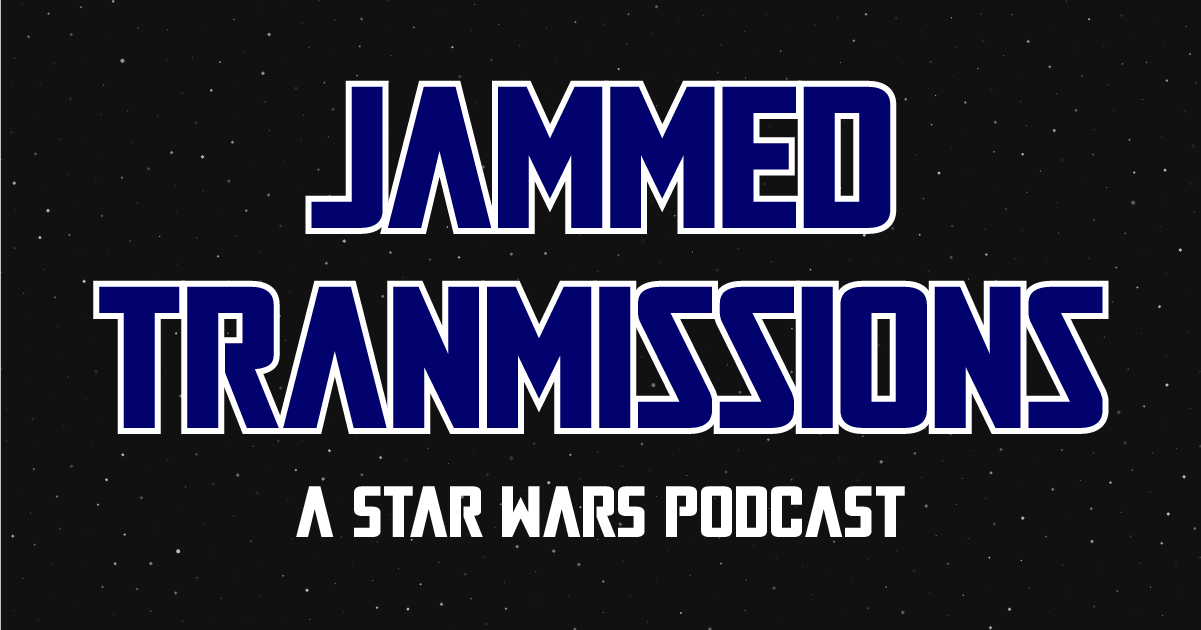
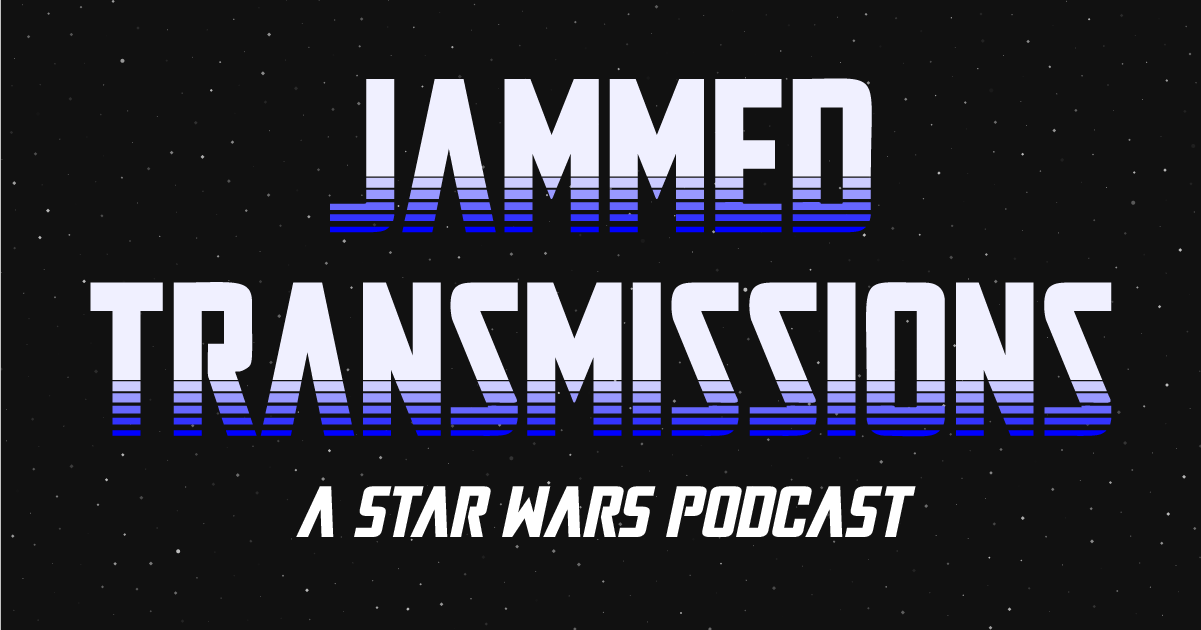
Update open graph images

Changed region(s): [[0.0616, 0.4222, 0.9242, 0.6937], [0.2465, 0.1206, 0.7702, 0.3921], [0.2465, 0.754, 0.7702, 0.8444]]

diff --git a/pages/_app.js b/pages/_app.js
@@ -25,7 +25,7 @@ function App({ Component, pageProps }) {
 				<meta property="og:title" content="Jammed Transmissions: A Star Wars Podcast" />
 				<meta property="og:description" content="A positive, listener interactive Star Wars podcast since 2018" />
 				{/* TODO Import this */}
-				{/* <meta property="og:image" content="https://jammedtransmissions.com/images/fb.png" /> */}
+				<meta property="og:image" content="https://jammedtransmissions.com/images/fb.png" />
 				<meta property="og:image:width" content="1201" />
 				<meta property="og:image:height" content="630" />
 
@@ -37,8 +37,8 @@ function App({ Component, pageProps }) {
 				<meta name="twitter:description" content="A positive, listener interactive Star Wars podcast since 2018" />
 				{/* TODO Import this */}
 				{/* NOTE This image should be 1:1. Min: 144x144. Max: 4096x4096 */}
-				{/* <meta name="twitter:image" content="https://jammedtransmissions.com/images/pod-cover.jpeg" /> */}
-				{/* <meta name="twitter:image:alt" content="Hawes and Will drawn as Boba Fett and Fennec Shand on Jabba's throne" /> */}
+				<meta name="twitter:image" content="https://jammedtransmissions.com/images/pod-cover.jpeg" />
+				<meta name="twitter:image:alt" content="Jammed Transmissions: A Star Wars Podcast" />
 
 				{/* <!-- Icons --> */}
 				<link rel="shortcut icon" href="/favicon.ico" type="image/x-icon" />
